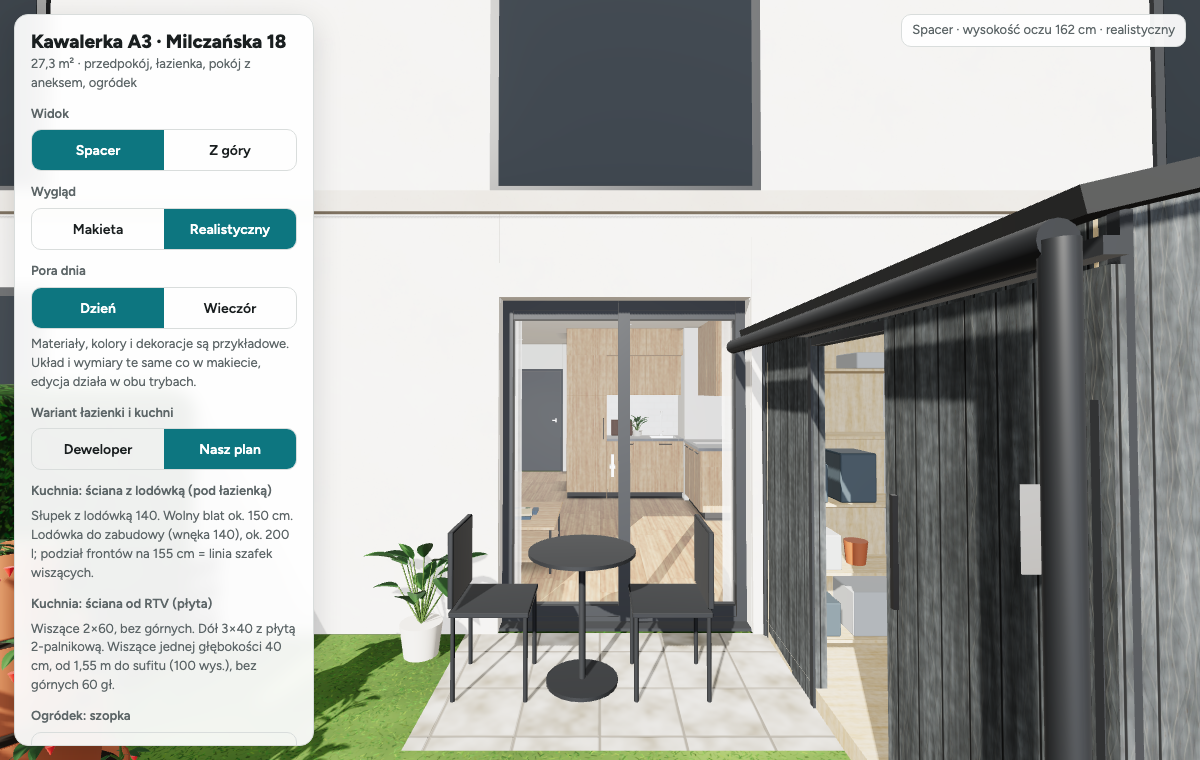
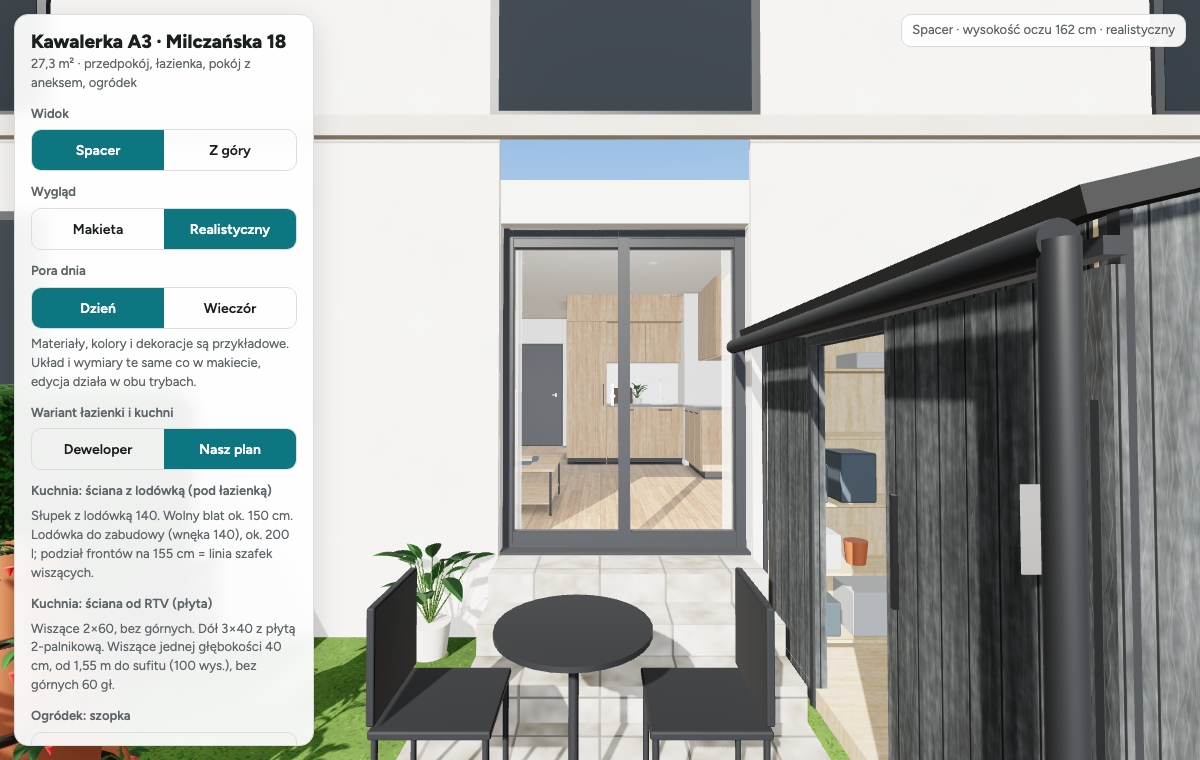
Dodanie schodow w ogrodzie

Changed region(s): [[0.2467, 0.1211, 1.0, 1.0], [0.0, 0.1513, 0.0308, 0.3934]]

diff --git a/index.html b/index.html
@@ -102,6 +102,11 @@ button:focus-visible,select:focus-visible,input:focus-visible{outline:2px solid 
 <script>
 {
 const H=2.55, DOOR=2.05, GDOOR=2.25, EYE=1.62;
+// ogródek niżej niż mieszkanie: z drzwi tarasowych schodzi się 3 stopniami (22.11.2026; wysokość stopnia przyjęta 17 cm, do zmierzenia)
+// STEPS = [z0,z1,y] stopni na szerokość drzwi (x 1,72–3,42): górny na poziomie podłogi, potem dwa niższe, dalej teren ogródka (GY)
+const RISE=.17, GY=-3*RISE, SX0=1.72, SX1=3.42, STEPS=[[6.95,7.30,0],[7.30,7.60,-RISE],[7.60,7.90,-2*RISE]];
+// wysokość podłoża w punkcie (mieszkanie 0, stopnie, ogródek GY) – dla mebli w ogródku i wysokości oczu w spacerze
+function floorAt(x,z){if(z<6.95)return 0;if(x>=SX0&&x<=SX1)for(const[a,b,y]of STEPS)if(z<b)return y;return GY}
 const hud=document.getElementById('hud');
 if(!window.THREE){hud.textContent='Nie udało się wczytać biblioteki 3D.';throw new Error('no three')}
 const cv=document.getElementById('c');
@@ -144,14 +149,16 @@ box(1.72,3.42,GDOOR-.06,GDOOR,6.74,6.84,mat.frame,lintG);
 // podłogi
 const fl=(x0,x1,z0,z1,m,y=0)=>{const p=new THREE.Mesh(new THREE.PlaneGeometry(x1-x0,z1-z0),m);p.rotation.x=-Math.PI/2;p.position.set((x0+x1)/2,y,(z0+z1)/2);p.receiveShadow=true;mockG.add(p);return p};
 fl(0,1.88,0,2.07,mat.floor);fl(0,4.25,2.07,6.7,mat.floor);fl(2,4.25,0,1.95,mat.tile);fl(1.72,3.42,6.7,6.95,mat.pave);
-fl(-.15,4.4,6.95,12.2,mat.grass,-.02);fl(1.5,3.65,6.95,8.1,mat.pave,-.01);fl(-30,30,-30,40,M(0xa9b59a),-.05);
+fl(-.15,4.4,6.95,12.2,mat.grass,GY-.02);fl(1.5,3.42,7.9,9,mat.pave,GY-.01);fl(-30,30,-30,40,M(0xa9b59a),GY-.05);
+STEPS.forEach(([a,b,y])=>box(SX0,SX1,GY-.02,y-.005,a,b,mat.pave)); // 3 stopnie z drzwi tarasowych do ogródka
+box(-.25,4.5,GY-.05,-.005,6.7,6.95,mat.ext); // cokół budynku między podłogą mieszkania a terenem ogródka
 const ceil=fl(0,4.25,0,6.7,mat.ceil,H);ceil.rotation.x=Math.PI/2;ceil.castShadow=true;
 const slab=box(-.25,4.5,H,H+.25,-.25,6.95,mat.ext);slab.castShadow=true;slab.material=new THREE.MeshStandardMaterial({colorWrite:false,depthWrite:false});
 solids.push([.75,1.65,-.35,-.2]);
 // ogrodzenie ogródka ~50 cm
-for(let z=7.2;z<=12.2;z+=.75){box(-.17,-.13,0,.5,z,z+.04,M(0x555b55));box(4.38,4.42,0,.5,z,z+.04,M(0x555b55))}
-for(let x=-.15;x<=4.4;x+=.75)box(x,x+.04,0,.5,12.18,12.22,M(0x555b55));
-[[-.15,-.15,6.95,12.2],[4.4,4.4,6.95,12.2],[-.15,4.4,12.2,12.2]].forEach(([a,b,c,d])=>box(a-.01,b+.01,.42,.45,c,d+.01,M(0x555b55)));
+for(let z=7.2;z<=12.2;z+=.75){box(-.17,-.13,GY,GY+.5,z,z+.04,M(0x555b55));box(4.38,4.42,GY,GY+.5,z,z+.04,M(0x555b55))}
+for(let x=-.15;x<=4.4;x+=.75)box(x,x+.04,GY,GY+.5,12.18,12.22,M(0x555b55));
+[[-.15,-.15,6.95,12.2],[4.4,4.4,6.95,12.2],[-.15,4.4,12.2,12.2]].forEach(([a,b,c,d])=>box(a-.01,b+.01,GY+.42,GY+.45,c,d+.01,M(0x555b55)));
 solids.push([-.3,-.1,6.95,12.3],[4.35,4.55,6.95,12.3],[-.3,4.55,12.15,12.3]);
 
 // ---------- meble ----------
@@ -342,7 +349,7 @@ function build(it){
    const qb=(x0,x1,y0,y1,z0,z1,m=c)=>box(x0,x1,y0,y1,z0,z1,m,q),Z0=-D/2,n=Math.max(2,Math.min(4,Math.round(L/.13))); // listwa przy ścianie (tył), trzonki pionowo
    qb(-L/2,L/2,1.46,1.52,Z0,Z0+.03,M(COL.grey));for(let k=0;k<n;k++){const x=-L/2+L*(k+.5)/n;qb(x-.015,x+.015,.3,h,Z0+.035,Z0+.065);qb(x-.012,x+.012,.1,.3,Z0+.02,Z0+.28,M(k===2?0x8a3a2a:COL.grey))}}break;
   default:b(0,w,0,h,0,d)}
- addEdges(g);g.position.set(it.x,0,it.z);g.rotation.y=-it.rot*Math.PI/180;g.userData.id=it.id;return g}
+ addEdges(g);g.position.set(it.x,floorAt(it.x,it.z),it.z);g.rotation.y=-it.rot*Math.PI/180;g.userData.id=it.id;return g}
 const edgeMat=new THREE.LineBasicMaterial({color:0x1c1916});
 const glassEdgeMat=new THREE.LineBasicMaterial({color:0x6d7f86});
 function addEdges(g){const ms=[];g.traverse(o=>{if(o.isMesh)ms.push(o)});ms.forEach(o=>{
@@ -797,7 +804,7 @@ function buildReal(it){
   default:bx(X0,X1,0,h,Z0,Z1,body,.01)}
  const ao=FLOOR_AO[it.kind];
  if(ao&&!(it.y>.05)&&!(it.kind==='wc'&&it.v==='nasz')){const m=new THREE.Mesh(new THREE.PlaneGeometry(it.w+.24,it.d+.24).rotateX(-Math.PI/2),aoFor(ao));m.position.y=.003;m.raycast=()=>{};g.add(m)}
- g.position.set(it.x,0,it.z);g.rotation.y=-it.rot*Math.PI/180;g.userData.id=it.id;return g}
+ g.position.set(it.x,floorAt(it.x,it.z),it.z);g.rotation.y=-it.rot*Math.PI/180;g.userData.id=it.id;return g}
 
 // ---------- architektura, ogród, światła ----------
 function makeReal(){
@@ -848,25 +855,27 @@ function makeReal(){
  // obraz nad sofą
  mesh(boxUV(RB(.03,.56,.76,.004,1)),MAT.blackMetal,.015,1.53,5.35,upper);const art=mesh(new THREE.PlaneGeometry(.7,.5),MAT.art,.031,1.53,5.35,upper,false);art.rotation.y=Math.PI/2;
  // ---- na zewnątrz ----
- plane(-.15,4.4,6.95,12.2,-.02,MAT.grass);plane(1.5,3.65,6.95,8.1,-.01,MAT.pave);plane(-60,60,-60,70,-.05,MAT.grassFar);
+ plane(-.15,4.4,6.95,12.2,GY-.02,MAT.grass);plane(1.5,3.42,7.9,9,GY-.01,MAT.pave);plane(-60,60,-60,70,GY-.05,MAT.grassFar);
+ STEPS.forEach(([a,b,y])=>wbox(SX0,SX1,GY-.02,y-.005,a,b,MAT.pave,base)); // 3 stopnie z drzwi tarasowych do ogródka
  for(const[ax,c,a0,a1]of[['X',-.15,6.95,12.2],['X',4.4,6.95,12.2],['Z',12.2,-.15,4.4]]){
-  for(let s=a0;s<=a1+.01;s+=1.25){const q=Math.min(s,a1);if(ax==='X')wbox(c-.03,c+.03,0,.55,q-.03,q+.03,MAT.fence,base);else wbox(q-.03,q+.03,0,.55,c-.03,c+.03,MAT.fence,base)}
-  [.12,.3,.48].forEach(y=>{if(ax==='X')wbox(c-.01,c+.01,y-.06,y+.06,a0,a1,MAT.fence,base);else wbox(a0,a1,y-.06,y+.06,c-.01,c+.01,MAT.fence,base)})}
- const hedge=(x0,x1,z0,z1,hh)=>mesh(boxUV(RB(x1-x0,hh,z1-z0,.18,3)),MAT.leaves,(x0+x1)/2,hh/2-.05,(z0+z1)/2,base);
+  for(let s=a0;s<=a1+.01;s+=1.25){const q=Math.min(s,a1);if(ax==='X')wbox(c-.03,c+.03,GY,GY+.55,q-.03,q+.03,MAT.fence,base);else wbox(q-.03,q+.03,GY,GY+.55,c-.03,c+.03,MAT.fence,base)}
+  [.12,.3,.48].map(y=>y+GY).forEach(y=>{if(ax==='X')wbox(c-.01,c+.01,y-.06,y+.06,a0,a1,MAT.fence,base);else wbox(a0,a1,y-.06,y+.06,c-.01,c+.01,MAT.fence,base)})}
+ const hedge=(x0,x1,z0,z1,hh)=>mesh(boxUV(RB(x1-x0,hh,z1-z0,.18,3)),MAT.leaves,(x0+x1)/2,GY+hh/2-.05,(z0+z1)/2,base);
  hedge(-.85,-.25,6.95,12.9,1.7);hedge(4.5,5.1,6.95,12.9,1.7);hedge(-.85,5.1,12.3,12.9,1.7);
  const foliage=(r,seed)=>{const geo=new THREE.IcosahedronGeometry(r,2),p=geo.attributes.position,q=rngOf(seed)()*10;
   for(let i=0;i<p.count;i++){const x=p.getX(i),y=p.getY(i),z=p.getZ(i),k=1+.16*Math.sin(3.1*x/r+q)*Math.sin(2.7*y/r+1+q)*Math.sin(3.3*z/r+2);p.setXYZ(i,x*k,y*k*.9,z*k)}geo.computeVertexNormals();return boxUV(geo)};
- const tree=(x,z,s,seed)=>{const r=rngOf(seed);mesh(new THREE.CylinderGeometry(.07*s,.1*s,1.8*s,10),MAT.bark,x,.9*s,z,base);
-  for(let i=0;i<5;i++)mesh(foliage((.55+r()*.35)*s,seed+i),MAT.leaves,x+(r()-.5)*.9*s,(2.1+r()*1.1)*s,z+(r()-.5)*.9*s,base)};
+ const tree=(x,z,s,seed)=>{const r=rngOf(seed);mesh(new THREE.CylinderGeometry(.07*s,.1*s,1.8*s,10),MAT.bark,x,GY+.9*s,z,base);
+  for(let i=0;i<5;i++)mesh(foliage((.55+r()*.35)*s,seed+i),MAT.leaves,x+(r()-.5)*.9*s,GY+(2.1+r()*1.1)*s,z+(r()-.5)*.9*s,base)};
  const tr=rngOf('las');
  for(let i=0;i<34;i++){const a=tr()*Math.PI*1.25-Math.PI*.12,d=13+tr()*22,x=2.1+Math.cos(a)*d,z=7+Math.sin(a)*d;if(z<7.5)continue;tree(x,z,1.3+tr()*1.4,'f'+i)}
- // stolik i dwa krzesła na tarasie
- mesh(new THREE.CylinderGeometry(.3,.3,.02,32),MAT.fence,2.3,.72,7.55,base);mesh(new THREE.CylinderGeometry(.02,.02,.7,10),MAT.fence,2.3,.36,7.55,base);mesh(new THREE.CylinderGeometry(.2,.2,.02,24),MAT.fence,2.3,.01,7.55,base);
- [[1.82,7.55,Math.PI/2],[2.78,7.55,-Math.PI/2]].forEach(([x,z,ry])=>{const c=new THREE.Group();c.position.set(x,0,z);c.rotation.y=ry;base.add(c);
+ // stolik i dwa krzesła na tarasie (u dołu stopni)
+ const tz=8.5;mesh(new THREE.CylinderGeometry(.3,.3,.02,32),MAT.fence,2.3,GY+.72,tz,base);mesh(new THREE.CylinderGeometry(.02,.02,.7,10),MAT.fence,2.3,GY+.36,tz,base);mesh(new THREE.CylinderGeometry(.2,.2,.02,24),MAT.fence,2.3,GY+.01,tz,base);
+ [[1.82,tz,Math.PI/2],[2.78,tz,-Math.PI/2]].forEach(([x,z,ry])=>{const c=new THREE.Group();c.position.set(x,GY,z);c.rotation.y=ry;base.add(c);
   mesh(boxUV(RB(.42,.03,.42,.008,1)),MAT.fence,0,.45,0,c);mesh(boxUV(RB(.42,.4,.03,.008,1)),MAT.fence,0,.68,-.2,c);[[-.19,-.19],[.19,-.19],[-.19,.19],[.19,.19]].forEach(([a,b])=>mesh(new THREE.CylinderGeometry(.012,.012,.45,8),MAT.fence,a,.225,b,c))});
- plantInto(base,1.3,0,7.25,.7,rngOf('pot1'),.4);
+ plantInto(base,1.35,GY,7.25,.7,rngOf('pot1'),.4);
  // elewacja budynku (3 kondygnacje) z oknami sąsiadów
- const fz=6.95;wbox(-9,1.72,0,9.4,fz,fz+.04,MAT.plaster,upper);wbox(3.42,13,0,9.4,fz,fz+.04,MAT.plaster,upper);wbox(1.72,3.42,GDOOR,9.4,fz,fz+.04,MAT.plaster,upper);
+ const fz=6.95;wbox(-9,1.72,GY-.02,9.4,fz,fz+.04,MAT.plaster,upper);wbox(3.42,13,GY-.02,9.4,fz,fz+.04,MAT.plaster,upper);
+ wbox(-.25,4.5,GY-.05,-.005,6.7,6.95,MAT.plaster2,base); // cokół pod podłogą mieszkania (widoczny też z góry)wbox(1.72,3.42,GDOOR,9.4,fz,fz+.04,MAT.plaster,upper);
  [2.95,5.9].forEach(y=>wbox(-9,13,y-.14,y,fz+.04,fz+.1,MAT.plaster2,upper));wbox(-9,13,9.2,9.4,fz+.04,fz+.12,MAT.plaster2,upper);
  const win=(x0,x1,y0,y1,lit)=>{wbox(x0-.06,x1+.06,y0,y1+.06,fz+.04,fz+.07,fr,upper);wbox(x0,x1,y0+.04,y1,fz+.07,fz+.075,lit?MAT.winLit:MAT.darkGlass,upper,false)};
  [[-3.1,-1.4],[6.2,7.9]].forEach(([a,b])=>win(a,b,0,GDOOR,false));
@@ -982,14 +991,14 @@ function hitFloor(x,y){ndc.set(x/innerWidth*2-1,-(y/innerHeight)*2+1);ray.setFro
 function pickItem(x,y){ndc.set(x/innerWidth*2-1,-(y/innerHeight)*2+1);ray.setFromCamera(ndc,cam);const h=ray.intersectObjects(furn.children,true)[0];if(!h)return null;let o=h.object;while(o.parent!==furn)o=o.parent;return o.userData.id}
 const ptrs=new Map();let drag=null,joy=null,look=null,pinch=0,downAt=null;
 cv.addEventListener('pointerdown',e=>{cv.setPointerCapture(e.pointerId);ptrs.set(e.pointerId,{x:e.clientX,y:e.clientY});downAt={x:e.clientX,y:e.clientY};
- if(mode==='top'){if(ptrs.size===1){const id=pickItem(e.clientX,e.clientY);if(id){const it=state.items.find(i=>i.id===id),p=hitFloor(e.clientX,e.clientY);if(selId!==id){selId=id;rebuild()}drag={id,dx:it.x-p.x,dz:it.z-p.z}}else drag=null}
+ if(mode==='top'){if(ptrs.size===1){const id=pickItem(e.clientX,e.clientY);if(id){const it=state.items.find(i=>i.id===id);ground.constant=-floorAt(it.x,it.z);const p=hitFloor(e.clientX,e.clientY);if(selId!==id){selId=id;rebuild()}drag={id,dx:it.x-p.x,dz:it.z-p.z}}else drag=null}
   if(ptrs.size===2){drag=null;const[a,b]=[...ptrs.values()];pinch=Math.hypot(a.x-b.x,a.y-b.y)}}
  else{if(e.pointerType==='touch'&&e.clientX<innerWidth/2)joy={id:e.pointerId,x:e.clientX,y:e.clientY,dx:0,dy:0};else look={id:e.pointerId}}
  cv.style.cursor='grabbing'});
 cv.addEventListener('pointermove',e=>{const prev=ptrs.get(e.pointerId);if(!prev)return;const dx=e.clientX-prev.x,dy=e.clientY-prev.y;ptrs.set(e.pointerId,{x:e.clientX,y:e.clientY});
  if(mode==='top'){
   if(ptrs.size===2){const[a,b]=[...ptrs.values()],d=Math.hypot(a.x-b.x,a.y-b.y);orb.r=Math.min(22,Math.max(3,orb.r*pinch/d));pinch=d;return}
-  if(drag){const p=hitFloor(e.clientX,e.clientY);if(!p)return;const it=state.items.find(i=>i.id===drag.id);it.x=Math.round((p.x+drag.dx)*20)/20;it.z=Math.round((p.z+drag.dz)*20)/20;const g=furn.children.find(c=>c.userData.id===it.id);g.position.set(it.x,0,it.z);renderer.shadowMap.needsUpdate=true;hud.textContent=`${it.name}: x ${Math.round((it.x-footprint(it)[0]/2)*100)} cm od lewej ściany, ${Math.round((it.z-footprint(it)[1]/2)*100)} cm od ściany wejściowej`}
+  if(drag){const p=hitFloor(e.clientX,e.clientY);if(!p)return;const it=state.items.find(i=>i.id===drag.id);it.x=Math.round((p.x+drag.dx)*20)/20;it.z=Math.round((p.z+drag.dz)*20)/20;const g=furn.children.find(c=>c.userData.id===it.id);g.position.set(it.x,floorAt(it.x,it.z),it.z);renderer.shadowMap.needsUpdate=true;hud.textContent=`${it.name}: x ${Math.round((it.x-footprint(it)[0]/2)*100)} cm od lewej ściany, ${Math.round((it.z-footprint(it)[1]/2)*100)} cm od ściany wejściowej`}
   else{orb.th-=dx*.006;orb.ph=Math.min(1.45,Math.max(.08,orb.ph-dy*.006))}}
  else{if(joy&&joy.id===e.pointerId){joy.dx=e.clientX-joy.x;joy.dy=e.clientY-joy.y}
   else if(look&&look.id===e.pointerId){yaw-=dx*.005;pitch=Math.min(1.2,Math.max(-1.2,pitch-dy*.005))}}});
@@ -1008,13 +1017,14 @@ function tick(t){const dt=Math.min(.05,(t-last)/1000);last=t;
   if(joy){f-=Math.max(-1,Math.min(1,joy.dy/60));s+=Math.max(-1,Math.min(1,joy.dx/60))}
   const sp=1.6*dt,fx=-Math.sin(yaw),fz=-Math.cos(yaw),nx=pos.x+(fx*f-fz*s)*sp,nz=pos.z+(fz*f+fx*s)*sp;
   if(!blocked(nx,pos.z))pos.x=nx;if(!blocked(pos.x,nz))pos.z=nz;
+  const fy=EYE+floorAt(pos.x,pos.z);pos.y+=(fy-pos.y)*Math.min(1,dt*9); // płynnie po stopniach
   cam.fov=72;cam.position.copy(pos);cam.rotation.set(pitch,yaw,0,'YXZ')}
  else{cam.fov=45;cam.position.set(orb.t.x+orb.r*Math.sin(orb.ph)*Math.sin(orb.th),orb.r*Math.cos(orb.ph),orb.t.z+orb.r*Math.sin(orb.ph)*Math.cos(orb.th));cam.lookAt(orb.t)}
  cam.updateProjectionMatrix();renderer.render(scene,cam);requestAnimationFrame(tick)}
 markBath();setMode('walk');rebuild();requestAnimationFrame(tick);
 {let s0=null;try{s0=new URLSearchParams(location.search).get('styl')||localStorage.getItem(SKEY)}catch(e){}if(s0==='real')setStyle('real')}
 // do zrzutów ekranu / testów
-window.A3={setStyle,setMode,setTod:t=>{tod=t;applyTod()},view:(x,z,y,p)=>{pos.set(x,EYE,z);yaw=y;pitch=p||0}};
+window.A3={setStyle,setMode,setTod:t=>{tod=t;applyTod()},view:(x,z,y,p)=>{pos.set(x,EYE+floorAt(x,z),z);yaw=y;pitch=p||0}};
 }
 </script>
 </body>

diff --git a/CLAUDE.md b/CLAUDE.md
@@ -37,7 +37,8 @@ na etapie koncepcji, przed decyzjami instalacyjnymi. Interfejs i komentarze po p
 | Drzwi wejściowe | 0,75–1,65 | ściana z<0 | wys. 2,05 |
 | Drzwi tarasowe | 1,72–3,42 | ściana z=6,70–6,95 | 1,70 m, wys. 2,25 |
 | Pokój dzienny z aneksem | 0–4,25 | 2,07–6,70 | 19,32 m² |
-| Ogródek | −0,15–4,40 | 6,95–12,20 | 23,49 m², ogrodzenie ~50 cm |
+| Ogródek | −0,15–4,40 | 6,95–12,20 | 23,49 m², ogrodzenie ~50 cm, teren 51 cm niżej niż podłoga (`GY`) |
+| Stopnie do ogródka | 1,72–3,42 | 6,95–7,90 | 3 stopnie po 17 cm (przyjęte, do zmierzenia): górny 35 cm na poziomie podłogi, dwa po 30 cm; tablica `STEPS` |
 Ściany zewnętrzne 25 cm, działowe 12 cm.
 
 ## Struktura kodu
@@ -100,6 +101,9 @@ na etapie koncepcji, przed decyzjami instalacyjnymi. Interfejs i komentarze po p
   Linie podziału frontów z pola `mods` (szerokości modułów w m), pozycja zlewu z `sink:[x0,x1]`.
 - Przedpokój „Nasz plan”: szafa do sufitu (z 0,62–2,04) + obudowa GK przewodu kominowego w narożniku przy wejściu
   (x 0–0,32, z 0,32–0,62, wymiar przyjęty, do zmierzenia) z płytką szafką 28 cm przed nią. „Deweloper” = szafa 2,40 m.
+
+- Poziom ogródka (22.11.2026): mieszkanie jest wyżej, z drzwi tarasowych prowadzą 3 stopnie. Stałe `RISE`, `GY`, `STEPS`; `floorAt(x,z)` daje wysokość podłoża
+  (0 / stopień / `GY`) – meble w ogródku stawiane są na niej w obu builderach, spacer podnosi/obniża oczy płynnie. Taras z płyt (stolik) u dołu stopni, z 7,90–9,00.
 
 - Ogródek „szopka” (22.11.2026, koncepcja, v:'all'): wąska 85×240 przy płocie sąsiada i elewacji, po LEWEJ po wyjściu na taras (x 3,50–4,35, z 7,00–9,40).
   Pierwsza wersja (160×200 po prawej, id `sz*`) odrzucona – przy wczytaniu usuwana z zapisanego stanu; obecne meble mają id `sw*`.
